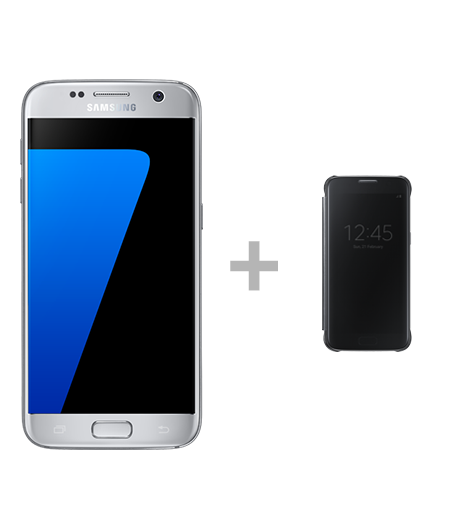
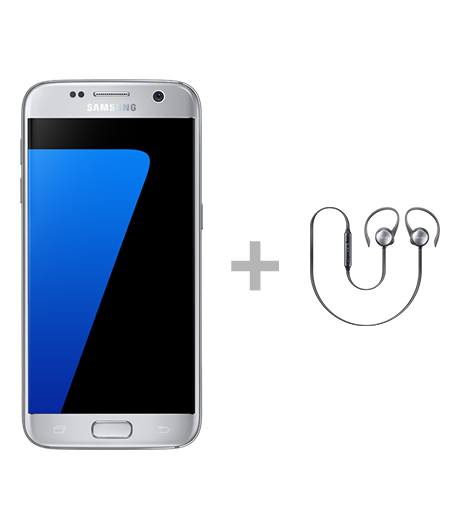
last small changes

diff --git a/app/scripts/main-shop.js b/app/scripts/main-shop.js
@@ -14089,10 +14089,10 @@ var PRODUCT_DATA = {
   'sku2':[['SM-G930FZKAXEF', 'SM-G930FZWAXEF', 'SM-G930FZDAXEF', 'SM-G930FEDAXEF', 'SM-G930FZBAXEF', 'SM-G930FZSAXEF'], ['SM-G935FZKAXEF','SM-G935FZWAXEF','SM-G935FZDAXEF', 'SM-G935FEDAXEF','SM-G935FZBAXEF']],
   'pack': [
             [
-             /* ['Pad à induction STAND','EP-NG930BBEGWW','phrase super décrivant le pack pad'],
+              ['Pad à induction STAND','EP-NG930BBEGWW','phrase super décrivant le pack pad'],
               ['Ecouteurs Level Active','EO-BG930CBEGWW','phrase super décrivant le pack ecouteurs'],
               ['Aucun Pack', '', ''],
-              ['Clear View','EF-ZG930CBEGWW','phrase super décrivant le pack etui']*/
+              ['Clear View','EF-ZG930CBEGWW','phrase super décrivant le pack etui']
             ],[
           /*    ['Pad à induction STAND','EP-NG930BBEGWW','phrase super décrivant le pack pad'],
               ['Ecouteurs Level Active','EO-BG930CBEGWW','phrase super décrivant le pack ecouteurs'],

diff --git a/app/index.html b/app/index.html
@@ -779,7 +779,8 @@
 								<img src="/images/kit_mains_libres.jpg" alt="Optez pour le kit mains-libres">
 							</div>
 							<div class="dasfloat">
-								DAS :<br>Galaxy S7<br>DAS pour la tête : <span class="das-value">0,406 W/kg</span>/ DAS pour le corps : <span class="das-value">0,621 W/kg</span><br>Galaxy S7 edge<br> DAS pour la tête : <span class="das-value">0,264 W/kg</span>/ DAS pour le corps : <span class="das-value">0,507 W/kg</span>
+								DAS :<br>Galaxy S7<br>DAS pour la tête : <span class="das-value">0,406 W/kg</span>/ DAS pour le corps : <span class="das-value">0,621 W/kg</span><br>Galaxy S7 edge<br> DAS pour la tête : <span class="das-value">0,264 W/kg</span>/ DAS pour le corps : <span class="das-value">0,507 W/kg</span><br>
+								Gear 360 a un DAS tête. DAS tête :  <span class="das-value">0,057 W/kg</span>
 							</div>
 							<br>
 

diff --git a/app/styles/main-shop.scss b/app/styles/main-shop.scss
@@ -448,7 +448,7 @@ only screen and (min-device-pixel-ratio: 1.5){
   .lesplus-panel {
     position: absolute;
     display: none;
-    top: 100px;
+    top: 85px;
     left: 0;
     z-index: 1;
     width: 100%;
